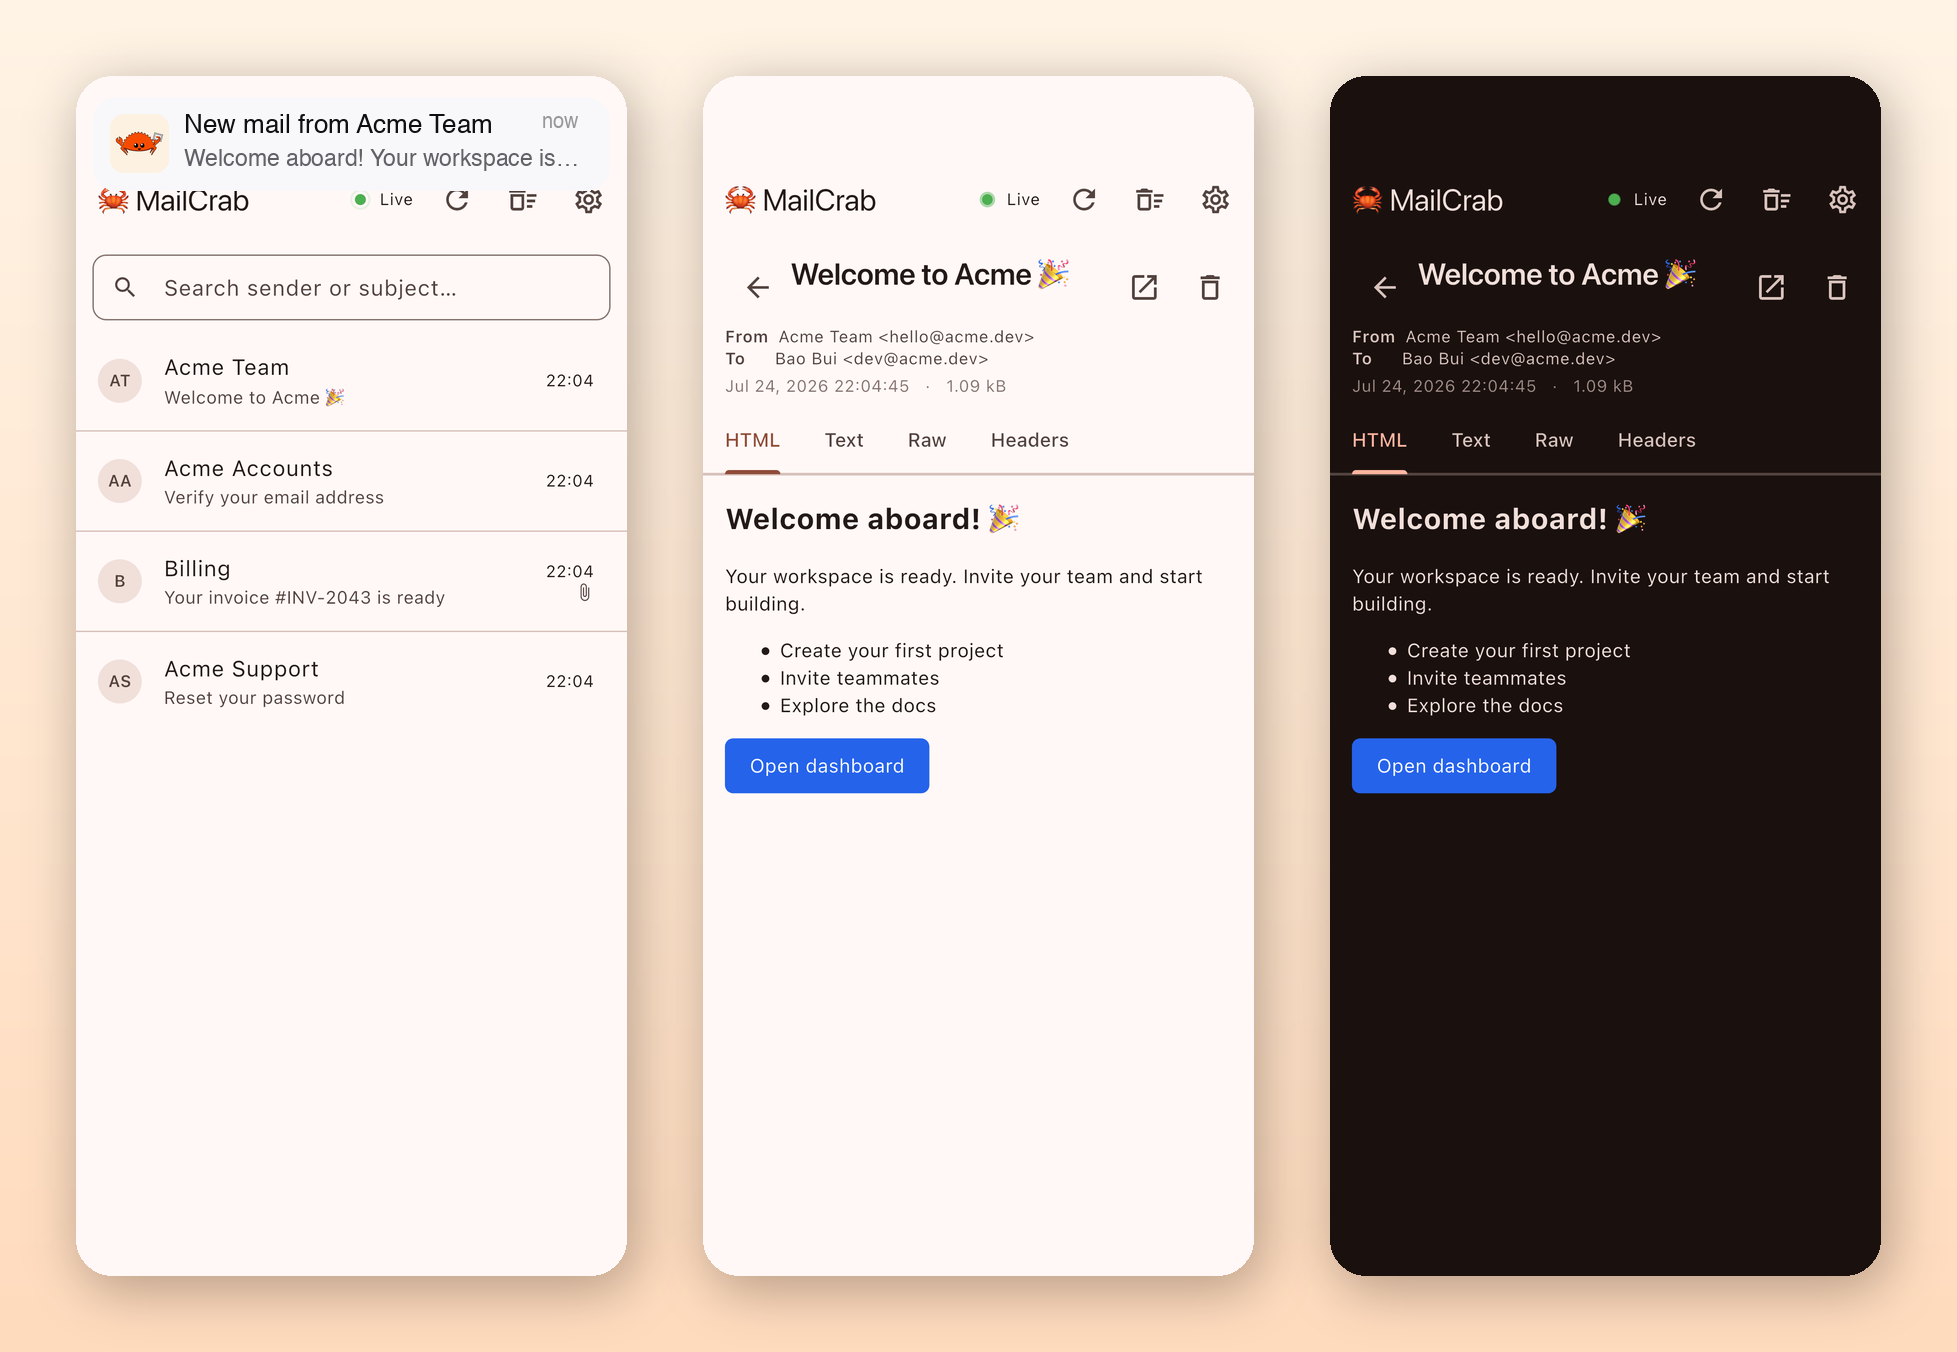
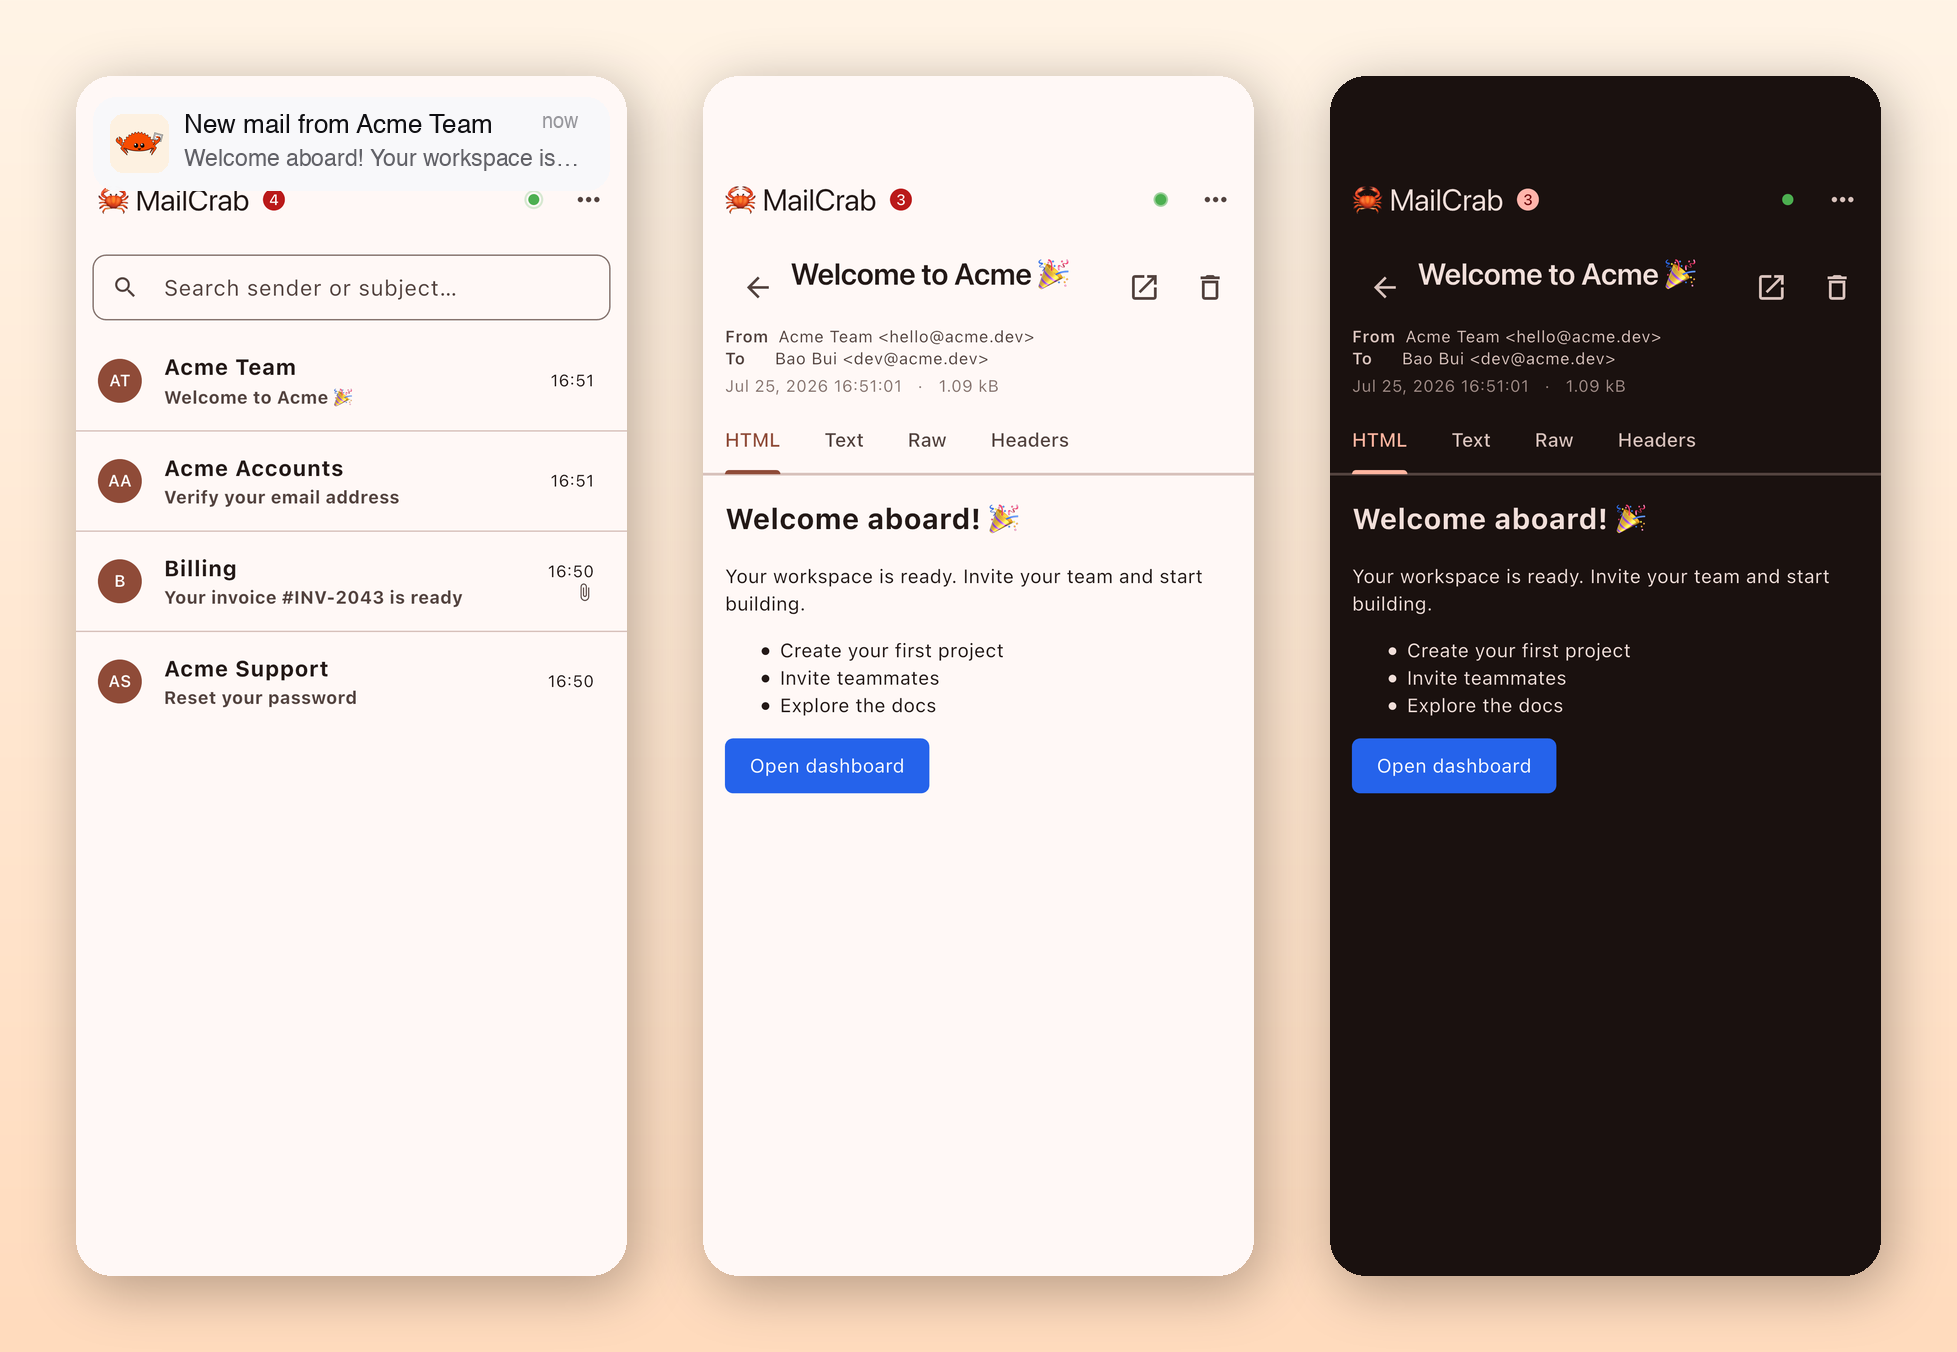
Mobile UX polish + refreshed screenshots
- Phone app bar: full-size title, status dot only, actions in an
  overflow menu
- Pull-to-refresh on the message list
- Swipe-to-delete messages (Dismissible), hover-delete kept for desktop
- Regenerated README mobile screenshots

diff --git a/lib/src/ui/home_page.dart b/lib/src/ui/home_page.dart
@@ -17,44 +17,84 @@ class HomePage extends StatelessWidget {
     return BlocBuilder<MailboxBloc, MailboxState>(
       builder: (context, state) {
         final bloc = context.read<MailboxBloc>();
+        final narrow = MediaQuery.sizeOf(context).width < _wideBreakpoint;
 
         return Scaffold(
           appBar: AppBar(
-            title: FittedBox(
-              fit: BoxFit.scaleDown,
-              alignment: Alignment.centerLeft,
-              child: Row(
-                mainAxisSize: MainAxisSize.min,
-                children: [
-                  const Text('🦀 '),
-                  const Text('MailCrab'),
-                  if (state.unreadCount > 0) ...[
-                    const SizedBox(width: 10),
-                    Badge.count(count: state.unreadCount),
-                  ],
+            title: Row(
+              mainAxisSize: MainAxisSize.min,
+              children: [
+                const Text('🦀 '),
+                const Text('MailCrab'),
+                if (state.unreadCount > 0) ...[
+                  const SizedBox(width: 10),
+                  Badge.count(count: state.unreadCount),
                 ],
-              ),
+              ],
             ),
-            actions: [
-              _StatusChip(state: state),
-              SpinIconButton(
-                tooltip: 'Refresh',
-                icon: Icons.refresh,
-                spinning: state.loadingList,
-                onPressed: () => bloc.add(const MailboxRefreshRequested()),
-              ),
-              BouncyIconButton(
-                tooltip: 'Delete all messages',
-                icon: Icons.delete_sweep_outlined,
-                onPressed: () => _confirmDeleteAll(context),
-              ),
-              IconButton(
-                tooltip: 'Settings',
-                icon: const Icon(Icons.settings_outlined),
-                onPressed: () => showSettingsDialog(context),
-              ),
-              const SizedBox(width: 4),
-            ],
+            actions: narrow
+                // Compact on phones: status dot + overflow menu.
+                // Refresh is covered by pull-to-refresh on the list.
+                ? [
+                    _StatusChip(state: state, compact: true),
+                    PopupMenuButton<_MenuAction>(
+                      tooltip: 'Menu',
+                      onSelected: (action) => switch (action) {
+                        _MenuAction.refresh =>
+                          bloc.add(const MailboxRefreshRequested()),
+                        _MenuAction.deleteAll => _confirmDeleteAll(context),
+                        _MenuAction.settings => showSettingsDialog(context),
+                      },
+                      itemBuilder: (_) => const [
+                        PopupMenuItem(
+                          value: _MenuAction.refresh,
+                          child: ListTile(
+                            leading: Icon(Icons.refresh),
+                            title: Text('Refresh'),
+                            contentPadding: EdgeInsets.zero,
+                          ),
+                        ),
+                        PopupMenuItem(
+                          value: _MenuAction.deleteAll,
+                          child: ListTile(
+                            leading: Icon(Icons.delete_sweep_outlined),
+                            title: Text('Delete all messages'),
+                            contentPadding: EdgeInsets.zero,
+                          ),
+                        ),
+                        PopupMenuItem(
+                          value: _MenuAction.settings,
+                          child: ListTile(
+                            leading: Icon(Icons.settings_outlined),
+                            title: Text('Settings'),
+                            contentPadding: EdgeInsets.zero,
+                          ),
+                        ),
+                      ],
+                    ),
+                    const SizedBox(width: 4),
+                  ]
+                : [
+                    _StatusChip(state: state),
+                    SpinIconButton(
+                      tooltip: 'Refresh',
+                      icon: Icons.refresh,
+                      spinning: state.loadingList,
+                      onPressed: () =>
+                          bloc.add(const MailboxRefreshRequested()),
+                    ),
+                    BouncyIconButton(
+                      tooltip: 'Delete all messages',
+                      icon: Icons.delete_sweep_outlined,
+                      onPressed: () => _confirmDeleteAll(context),
+                    ),
+                    IconButton(
+                      tooltip: 'Settings',
+                      icon: const Icon(Icons.settings_outlined),
+                      onPressed: () => showSettingsDialog(context),
+                    ),
+                    const SizedBox(width: 4),
+                  ],
           ),
           body: Column(
             children: [
@@ -130,10 +170,15 @@ class HomePage extends StatelessWidget {
   }
 }
 
+enum _MenuAction { refresh, deleteAll, settings }
+
 class _StatusChip extends StatelessWidget {
   final MailboxState state;
 
-  const _StatusChip({required this.state});
+  /// Dot only (no label) — used in the phone app bar.
+  final bool compact;
+
+  const _StatusChip({required this.state, this.compact = false});
 
   @override
   Widget build(BuildContext context) {
@@ -172,8 +217,10 @@ class _StatusChip extends StatelessWidget {
                 color: color,
                 pinging: state.serverStatus == ServerStatus.connected,
               ),
-            const SizedBox(width: 6),
-            Text(label, style: Theme.of(context).textTheme.bodySmall),
+            if (!compact) ...[
+              const SizedBox(width: 6),
+              Text(label, style: Theme.of(context).textTheme.bodySmall),
+            ],
           ],
         ),
       ),

diff --git a/lib/src/ui/message_list.dart b/lib/src/ui/message_list.dart
@@ -21,6 +21,15 @@ class _MessageListPaneState extends State<MessageListPane> {
     super.dispose();
   }
 
+  Future<void> _refresh(BuildContext context) async {
+    final bloc = context.read<MailboxBloc>();
+    bloc.add(const MailboxRefreshRequested());
+    // Keep the spinner visible until the reload finishes.
+    await bloc.stream
+        .firstWhere((s) => !s.loadingList)
+        .timeout(const Duration(seconds: 10), onTimeout: () => bloc.state);
+  }
+
   @override
   Widget build(BuildContext context) {
     return BlocBuilder<MailboxBloc, MailboxState>(
@@ -62,16 +71,20 @@ class _MessageListPaneState extends State<MessageListPane> {
             ),
             if (state.loadingList) const LinearProgressIndicator(minHeight: 2),
             Expanded(
-              child: messages.isEmpty
-                  ? _EmptyState(hasFilter: state.filter.trim().isNotEmpty)
-                  : ListView.separated(
-                      itemCount: messages.length,
-                      separatorBuilder: (_, _) => const Divider(height: 1),
-                      itemBuilder: (context, index) => _MessageTile(
-                        message: messages[index],
-                        selected: messages[index].id == state.selectedId,
+              child: RefreshIndicator(
+                onRefresh: () => _refresh(context),
+                child: messages.isEmpty
+                    ? _EmptyState(hasFilter: state.filter.trim().isNotEmpty)
+                    : ListView.separated(
+                        physics: const AlwaysScrollableScrollPhysics(),
+                        itemCount: messages.length,
+                        separatorBuilder: (_, _) => const Divider(height: 1),
+                        itemBuilder: (context, index) => _MessageTile(
+                          message: messages[index],
+                          selected: messages[index].id == state.selectedId,
+                        ),
                       ),
-                    ),
+              ),
             ),
           ],
         );
@@ -102,10 +115,21 @@ class _MessageTileState extends State<_MessageTile> {
       fontWeight: unread ? FontWeight.w700 : FontWeight.w400,
     );
 
-    return MouseRegion(
-      onEnter: (_) => setState(() => _hovered = true),
-      onExit: (_) => setState(() => _hovered = false),
-      child: ListTile(
+    return Dismissible(
+      key: ValueKey('dismiss-${message.id}'),
+      direction: DismissDirection.endToStart,
+      onDismissed: (_) =>
+          context.read<MailboxBloc>().add(MailboxMessageDeleted(message.id)),
+      background: Container(
+        color: theme.colorScheme.error,
+        alignment: Alignment.centerRight,
+        padding: const EdgeInsets.only(right: 24),
+        child: Icon(Icons.delete_outline, color: theme.colorScheme.onError),
+      ),
+      child: MouseRegion(
+        onEnter: (_) => setState(() => _hovered = true),
+        onExit: (_) => setState(() => _hovered = false),
+        child: ListTile(
         selected: widget.selected,
         selectedTileColor:
             theme.colorScheme.primaryContainer.withValues(alpha: 0.35),
@@ -160,6 +184,7 @@ class _MessageTileState extends State<_MessageTile> {
                         size: 14, color: theme.colorScheme.onSurfaceVariant),
                 ],
               ),
+        ),
       ),
     );
   }
